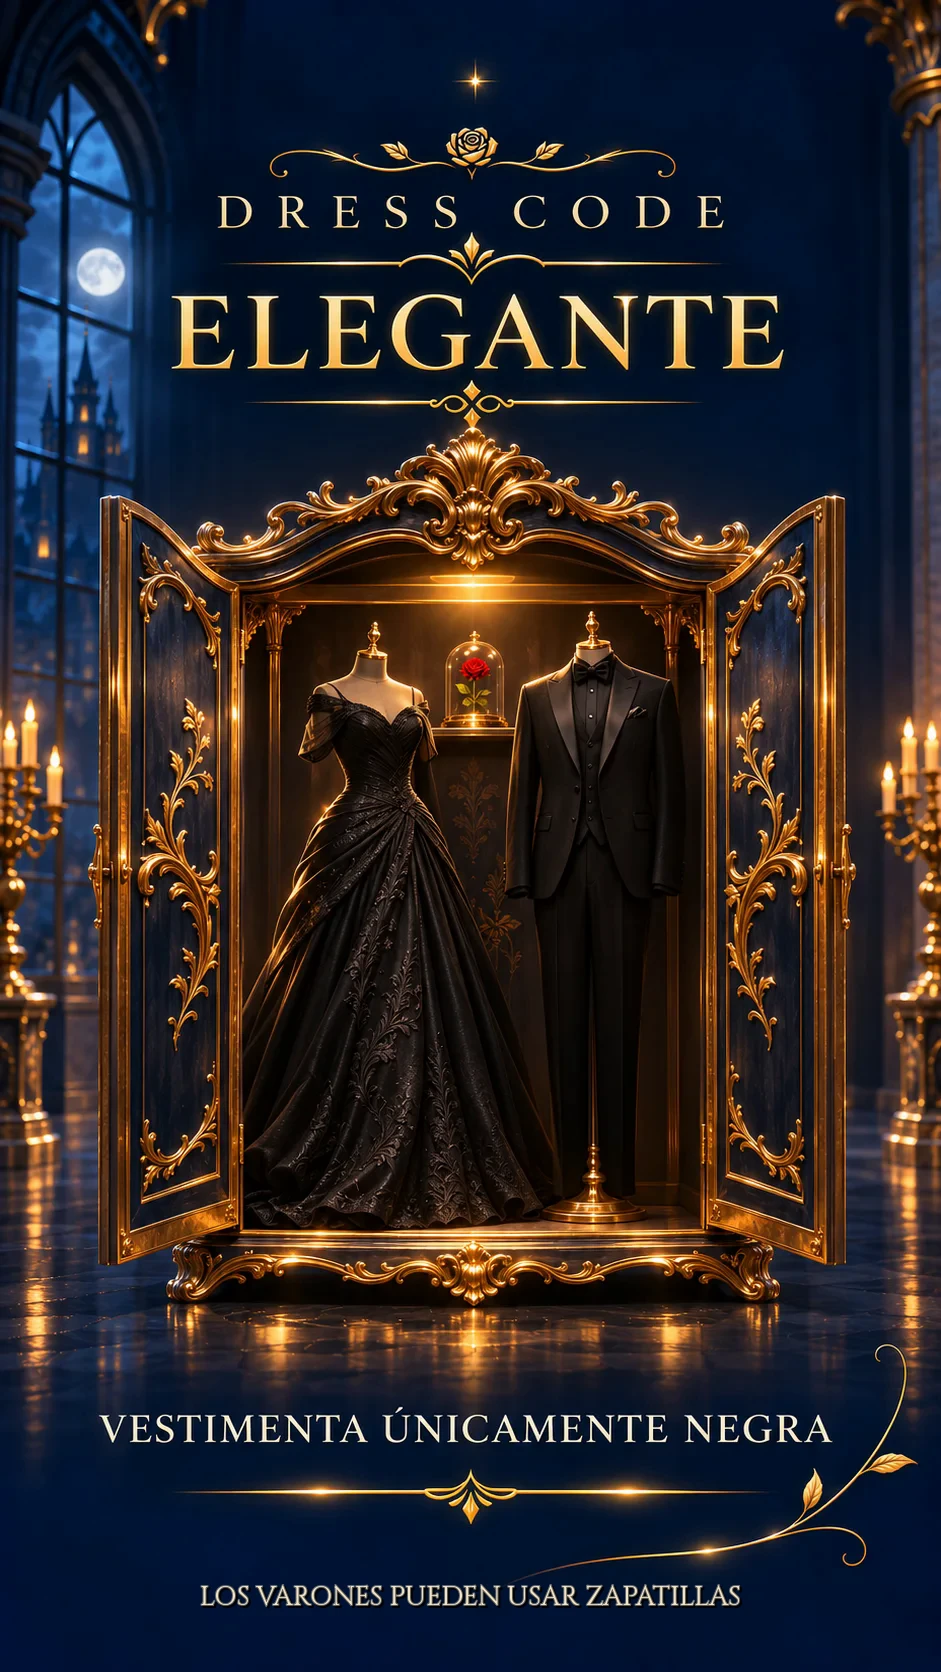
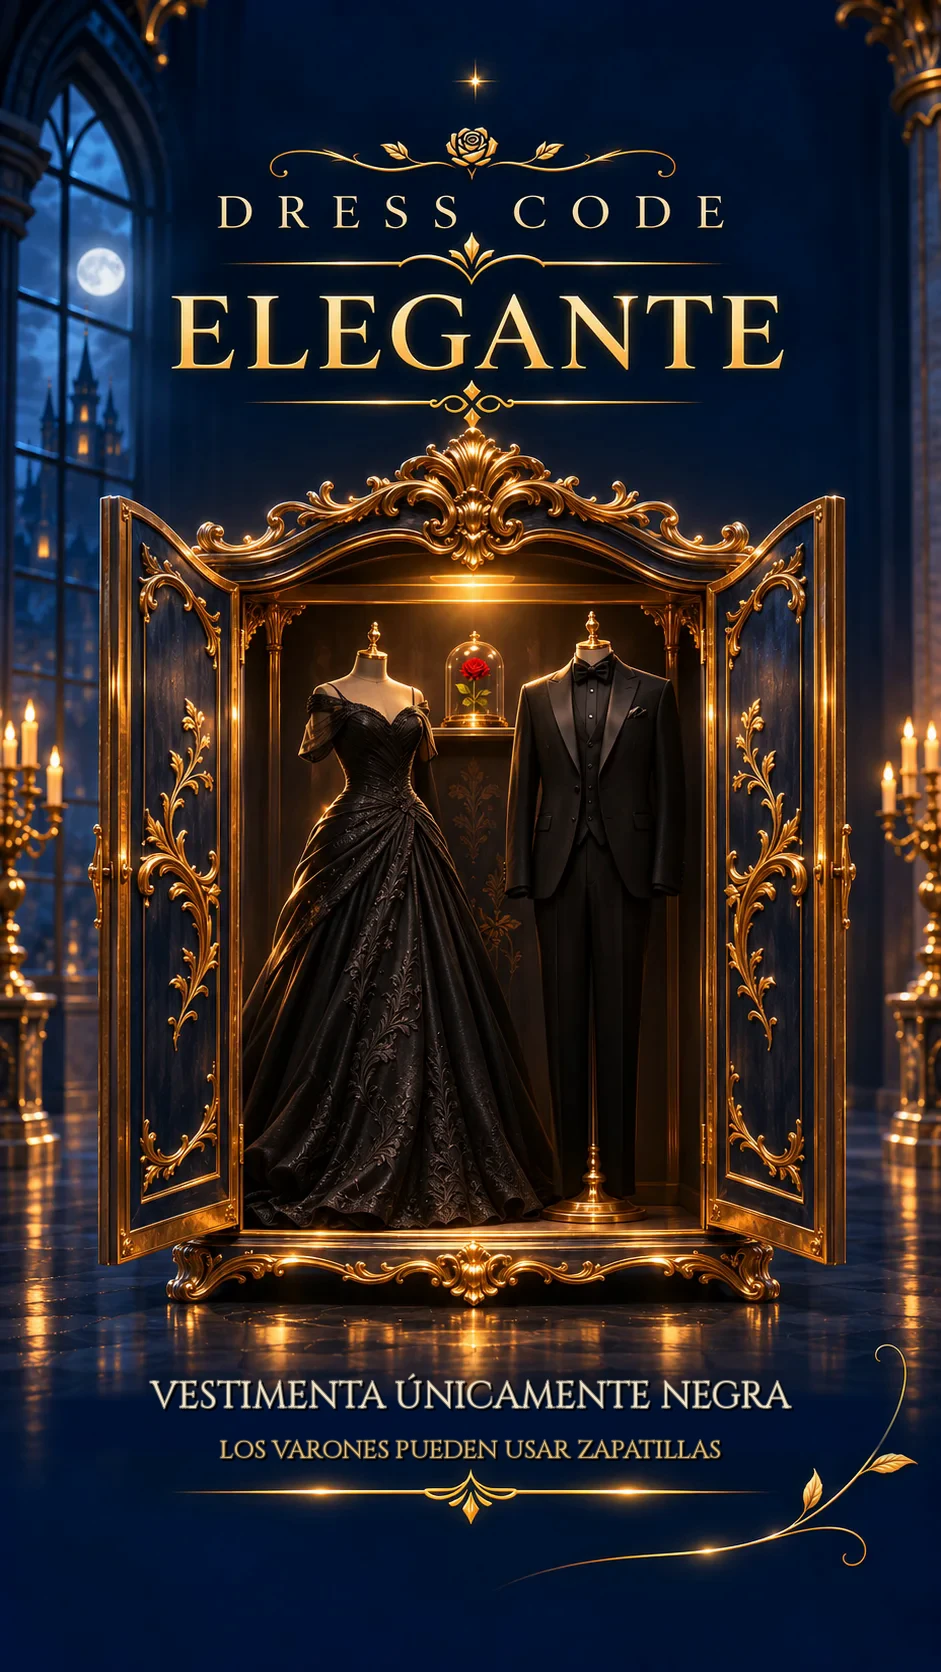
Scroll libre sobre el espejo, sin efecto de aparición y dress code reacomodado

Changed region(s): [[0.0925, 0.8086, 0.8937, 0.8708], [0.2157, 0.933, 0.8013, 0.9641], [0.9245, 0.8397, 0.9554, 0.8708]]

diff --git a/index.html b/index.html
@@ -30,7 +30,7 @@
       href="https://fonts.googleapis.com/css2?family=Cormorant+Garamond:wght@400;500;600&family=Cinzel:wght@500;600&family=Great+Vibes&display=swap"
     />
     <link rel="preload" as="image" href="assets/portada.webp" fetchpriority="high" />
-    <link rel="stylesheet" href="styles.css?v=1" />
+    <link rel="stylesheet" href="styles.css?v=2" />
   </head>
   <body>
     <main class="invitation" id="invitation" aria-label="Invitación a los XV de Morena">
@@ -59,7 +59,7 @@
         </div>
       </section>
 
-      <section class="panel panel--guests reveal" aria-labelledby="guests-title" style="--bg: url(assets/invitados.webp)">
+      <section class="panel panel--guests" aria-labelledby="guests-title" style="--bg: url(assets/invitados.webp)">
         <div class="panel__stage">
           <h2 id="guests-title" class="sr-only">Esta invitación es para</h2>
           <img src="assets/invitados.webp" alt="" width="941" height="1672" loading="lazy" />
@@ -68,7 +68,7 @@
         </div>
       </section>
 
-      <section class="panel panel--countdown reveal" aria-labelledby="countdown-title" style="--bg: url(assets/cuenta-regresiva.webp)">
+      <section class="panel panel--countdown" aria-labelledby="countdown-title" style="--bg: url(assets/cuenta-regresiva.webp)">
         <div class="panel__stage">
           <h2 id="countdown-title" class="sr-only">Faltan para mis XV</h2>
           <img src="assets/cuenta-regresiva.webp" alt="" width="941" height="1672" loading="lazy" />
@@ -83,7 +83,7 @@
       </section>
 
       <!-- Fecha: el espejo está empañado por el hechizo; se raspa con el dedo para ver la fecha -->
-      <section class="panel panel--date reveal" id="datePanel" aria-labelledby="date-title" style="--bg: url(assets/fecha-hora.webp?v=2)">
+      <section class="panel panel--date" id="datePanel" aria-labelledby="date-title" style="--bg: url(assets/fecha-hora.webp?v=2)">
         <div class="panel__stage">
           <h2 id="date-title" class="sr-only">Fecha y hora</h2>
           <img src="assets/fecha-hora.webp?v=2" alt="Sábado 06 de febrero de 2027, de 21:00 a 05:00 horas" width="941" height="1672" loading="lazy" />
@@ -106,7 +106,7 @@
         </div>
       </section>
 
-      <section class="panel panel--map reveal" aria-labelledby="map-title" style="--bg: url(assets/como-llegar.webp)">
+      <section class="panel panel--map" aria-labelledby="map-title" style="--bg: url(assets/como-llegar.webp)">
         <div class="panel__stage">
           <h2 id="map-title" class="sr-only">Cómo llegar</h2>
           <img src="assets/como-llegar.webp" alt="Cómo llegar. La Fábrica" width="941" height="1672" loading="lazy" />
@@ -121,14 +121,14 @@
         </div>
       </section>
 
-      <section class="panel panel--dress reveal" aria-labelledby="dress-title" style="--bg: url(assets/dress-code.webp?v=2)">
+      <section class="panel panel--dress" aria-labelledby="dress-title" style="--bg: url(assets/dress-code.webp?v=3)">
         <div class="panel__stage">
           <h2 id="dress-title" class="sr-only">Dress code</h2>
-          <img src="assets/dress-code.webp?v=2" alt="Dress code elegante. Vestimenta únicamente negra. Los varones pueden usar zapatillas" width="941" height="1672" loading="lazy" />
+          <img src="assets/dress-code.webp?v=3" alt="Dress code elegante. Vestimenta únicamente negra. Los varones pueden usar zapatillas" width="941" height="1672" loading="lazy" />
         </div>
       </section>
 
-      <section class="panel panel--gifts reveal" aria-labelledby="gifts-title" style="--bg: url(assets/regalos.webp)">
+      <section class="panel panel--gifts" aria-labelledby="gifts-title" style="--bg: url(assets/regalos.webp)">
         <div class="panel__stage">
           <h2 id="gifts-title" class="sr-only">Regalos</h2>
           <img src="assets/regalos.webp" alt="Regalos. Tu presencia es mi mejor regalo. Si deseás hacerme un presente" width="941" height="1672" loading="lazy" />
@@ -137,7 +137,7 @@
         </div>
       </section>
 
-      <section class="panel panel--music reveal" aria-labelledby="music-title" style="--bg: url(assets/musica.webp)">
+      <section class="panel panel--music" aria-labelledby="music-title" style="--bg: url(assets/musica.webp)">
         <div class="panel__stage">
           <h2 id="music-title" class="sr-only">Música</h2>
           <img src="assets/musica.webp" alt="Música. Ayudame a crear la playlist de esa noche" width="941" height="1672" loading="lazy" />
@@ -157,7 +157,7 @@
         </div>
       </section>
 
-      <section class="panel panel--bloomkeep reveal" aria-labelledby="bloomkeep-title" style="--bg: url(assets/bloomkeep.webp)">
+      <section class="panel panel--bloomkeep" aria-labelledby="bloomkeep-title" style="--bg: url(assets/bloomkeep.webp)">
         <div class="panel__stage">
           <h2 id="bloomkeep-title" class="sr-only">BloomKeep</h2>
           <img src="assets/bloomkeep.webp" alt="BloomKeep. Cada recuerdo será parte de esta historia. Compartí tus fotos durante la fiesta" width="941" height="1671" loading="lazy" />
@@ -167,7 +167,7 @@
         </div>
       </section>
 
-      <section class="panel panel--rsvp reveal" aria-labelledby="rsvp-title" style="--bg: url(assets/confirmacion.webp?v=2)">
+      <section class="panel panel--rsvp" aria-labelledby="rsvp-title" style="--bg: url(assets/confirmacion.webp?v=2)">
         <div class="panel__stage">
           <h2 id="rsvp-title" class="sr-only">Confirmación de asistencia</h2>
           <img src="assets/confirmacion.webp?v=2" alt="Confirmación de asistencia. ¿Nos acompañás a vivir esta noche encantada? Confirmá hasta el 5 de diciembre" width="941" height="1671" loading="lazy" />
@@ -218,7 +218,7 @@
 
     <p class="toast" id="toast" role="status" aria-live="polite"></p>
 
-    <script src="script.js?v=1"></script>
+    <script src="script.js?v=2"></script>
     <script src="assets/invitation-personalization.js?v=1"></script>
   </body>
 </html>

diff --git a/script.js b/script.js
@@ -36,24 +36,6 @@
   tick();
   setInterval(tick, 1000);
 
-  /* ---------- Aparición al hacer scroll ---------- */
-  const reveals = document.querySelectorAll(".reveal");
-  if ("IntersectionObserver" in window) {
-    const io = new IntersectionObserver(
-      (entries) => {
-        entries.forEach((entry) => {
-          if (!entry.isIntersecting) return;
-          entry.target.classList.add("is-visible");
-          io.unobserve(entry.target);
-        });
-      },
-      { threshold: 0.18 }
-    );
-    reveals.forEach((el) => io.observe(el));
-  } else {
-    reveals.forEach((el) => el.classList.add("is-visible"));
-  }
-
   /* ---------- Espejo encantado: se raspa para ver la fecha ---------- */
   const datePanel = document.getElementById("datePanel");
   const mirror = document.getElementById("mirror");

diff --git a/styles.css b/styles.css
@@ -89,14 +89,6 @@ img { display: block; max-width: 100%; }
 
 .panel__stage > img { width: 100%; height: 100%; object-fit: cover; }
 
-/* Aparición al hacer scroll */
-.reveal .panel__stage {
-  opacity: 0;
-  translate: 0 22px;
-  transition: opacity 1100ms ease, translate 1300ms cubic-bezier(0.2, 0.7, 0.2, 1);
-}
-
-.reveal.is-visible .panel__stage { opacity: 1; translate: 0 0; }
 
 /* ---------- Portada ---------- */
 .cover__shine {
@@ -296,7 +288,7 @@ img { display: block; max-width: 100%; }
   inset: 0;
   width: 100%;
   height: 100%;
-  touch-action: none;
+  touch-action: pan-y; /* deslizar hacia arriba/abajo sigue scrolleando; de costado raspa */
   cursor: grab;
 }
 
